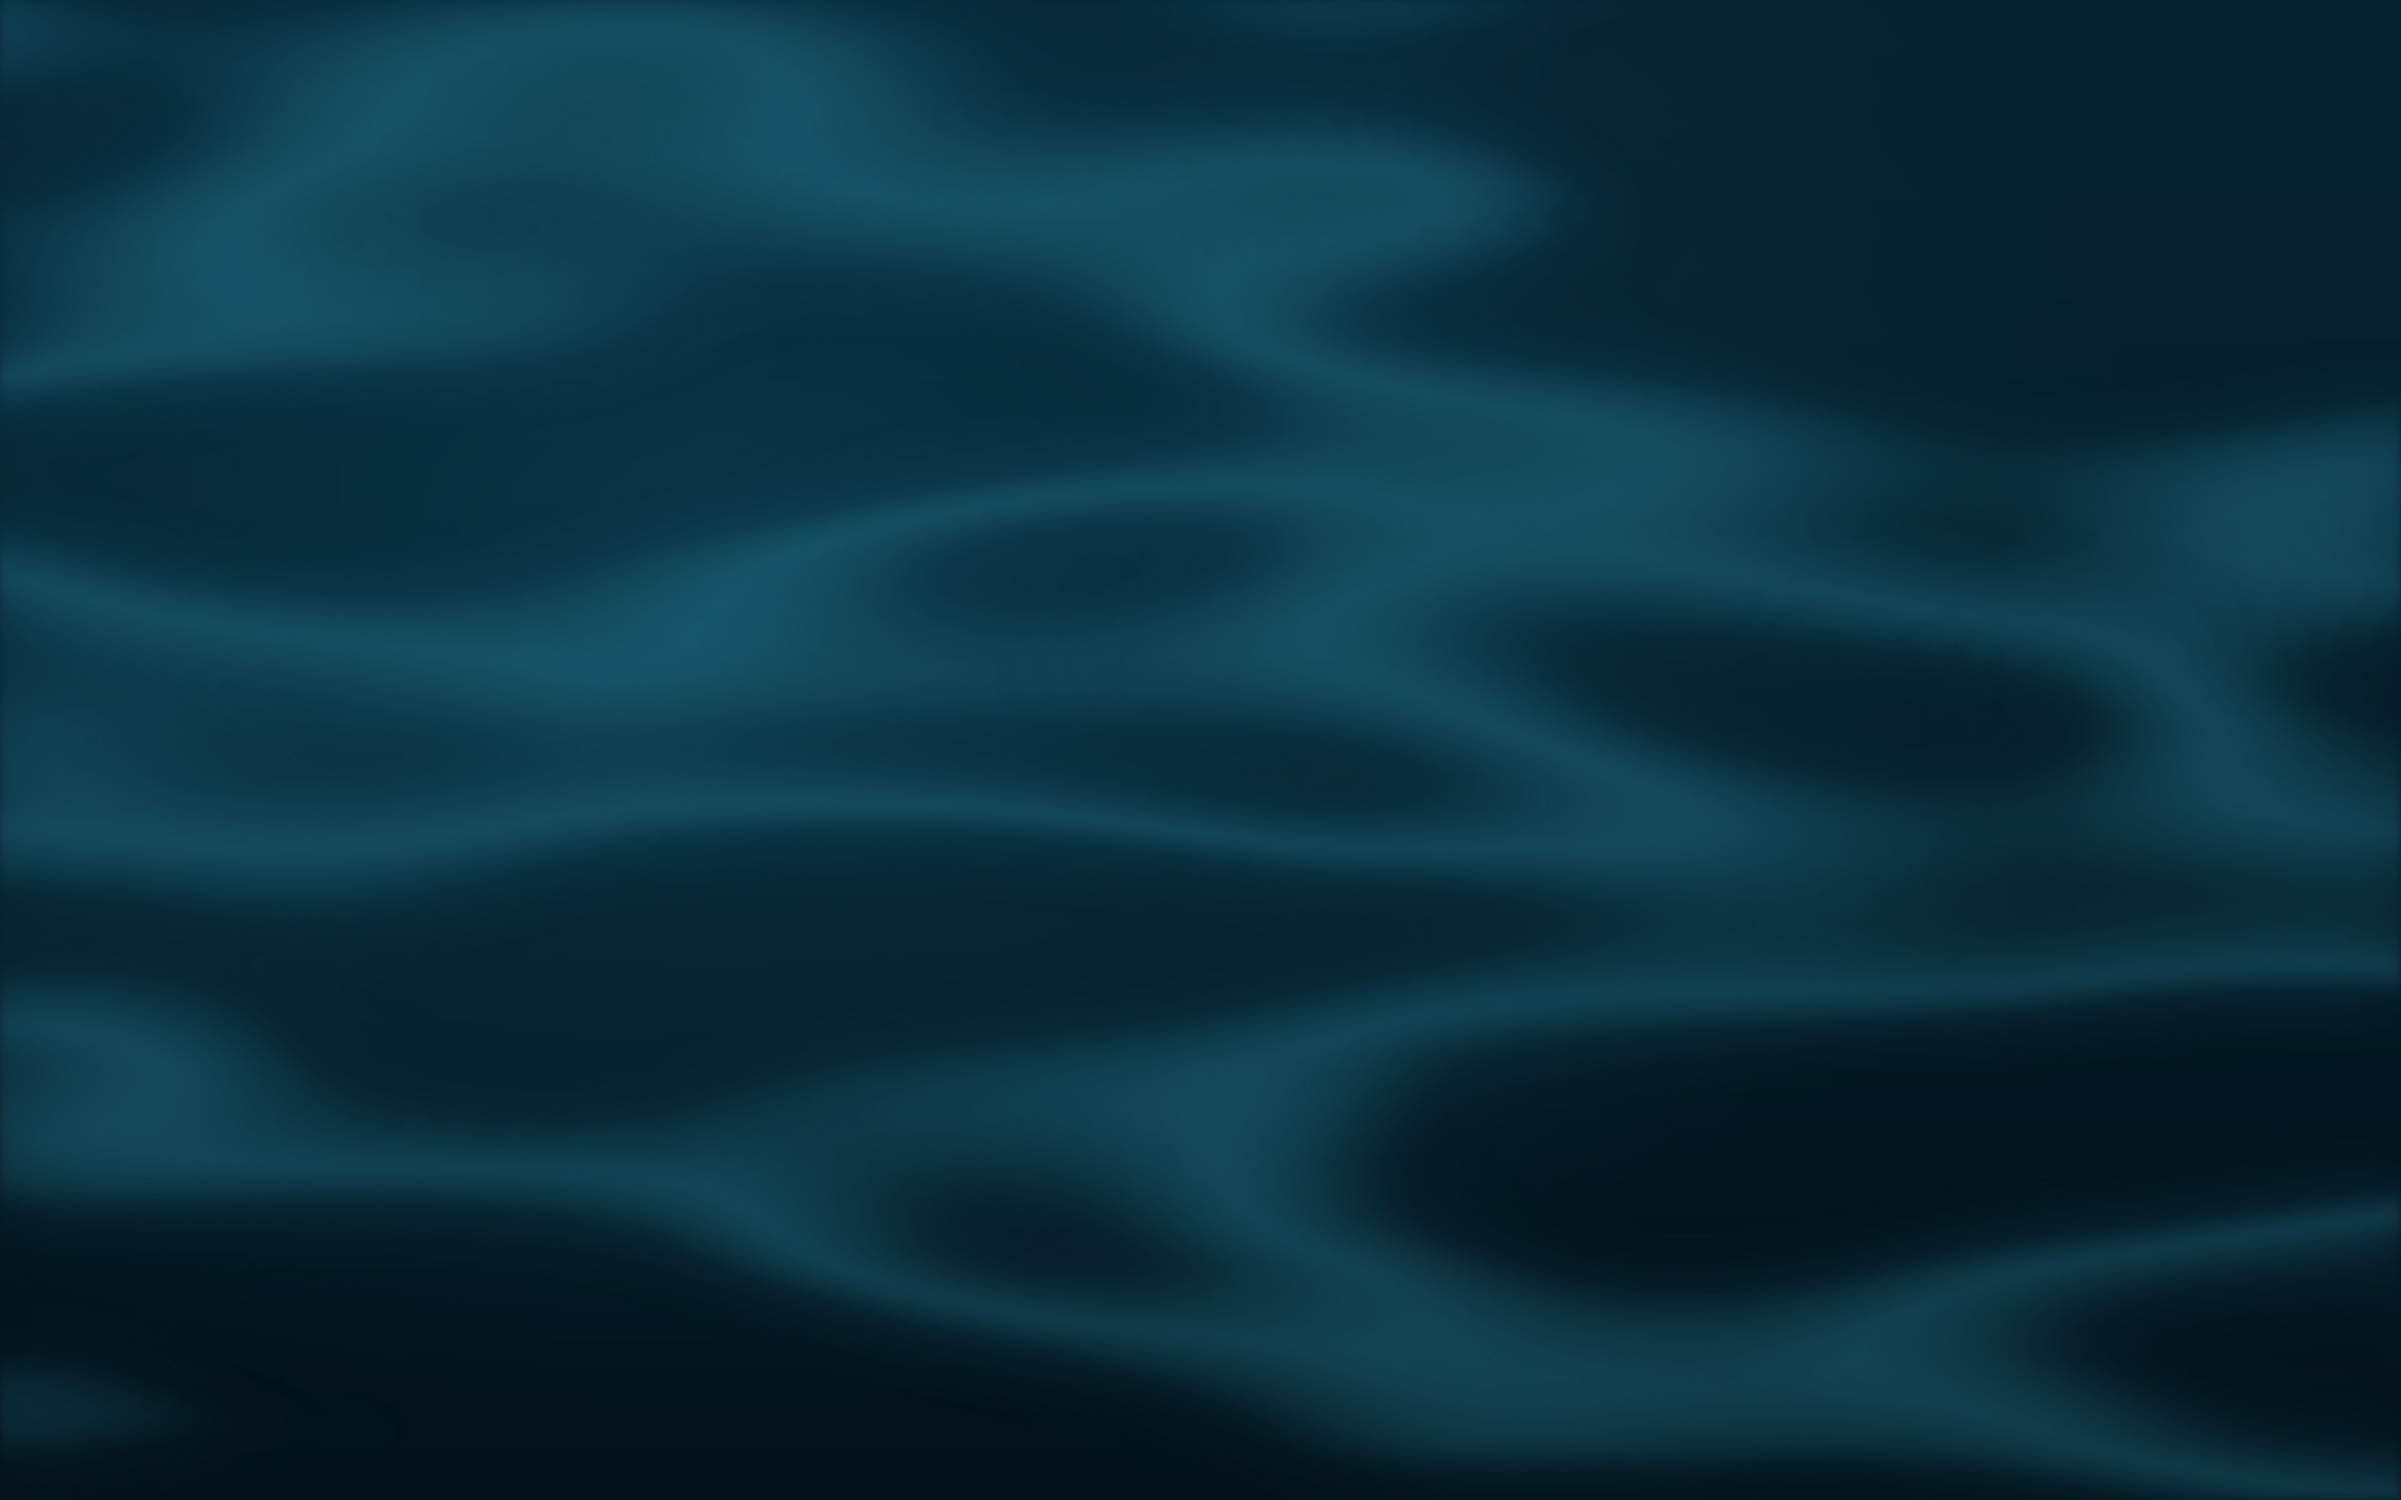
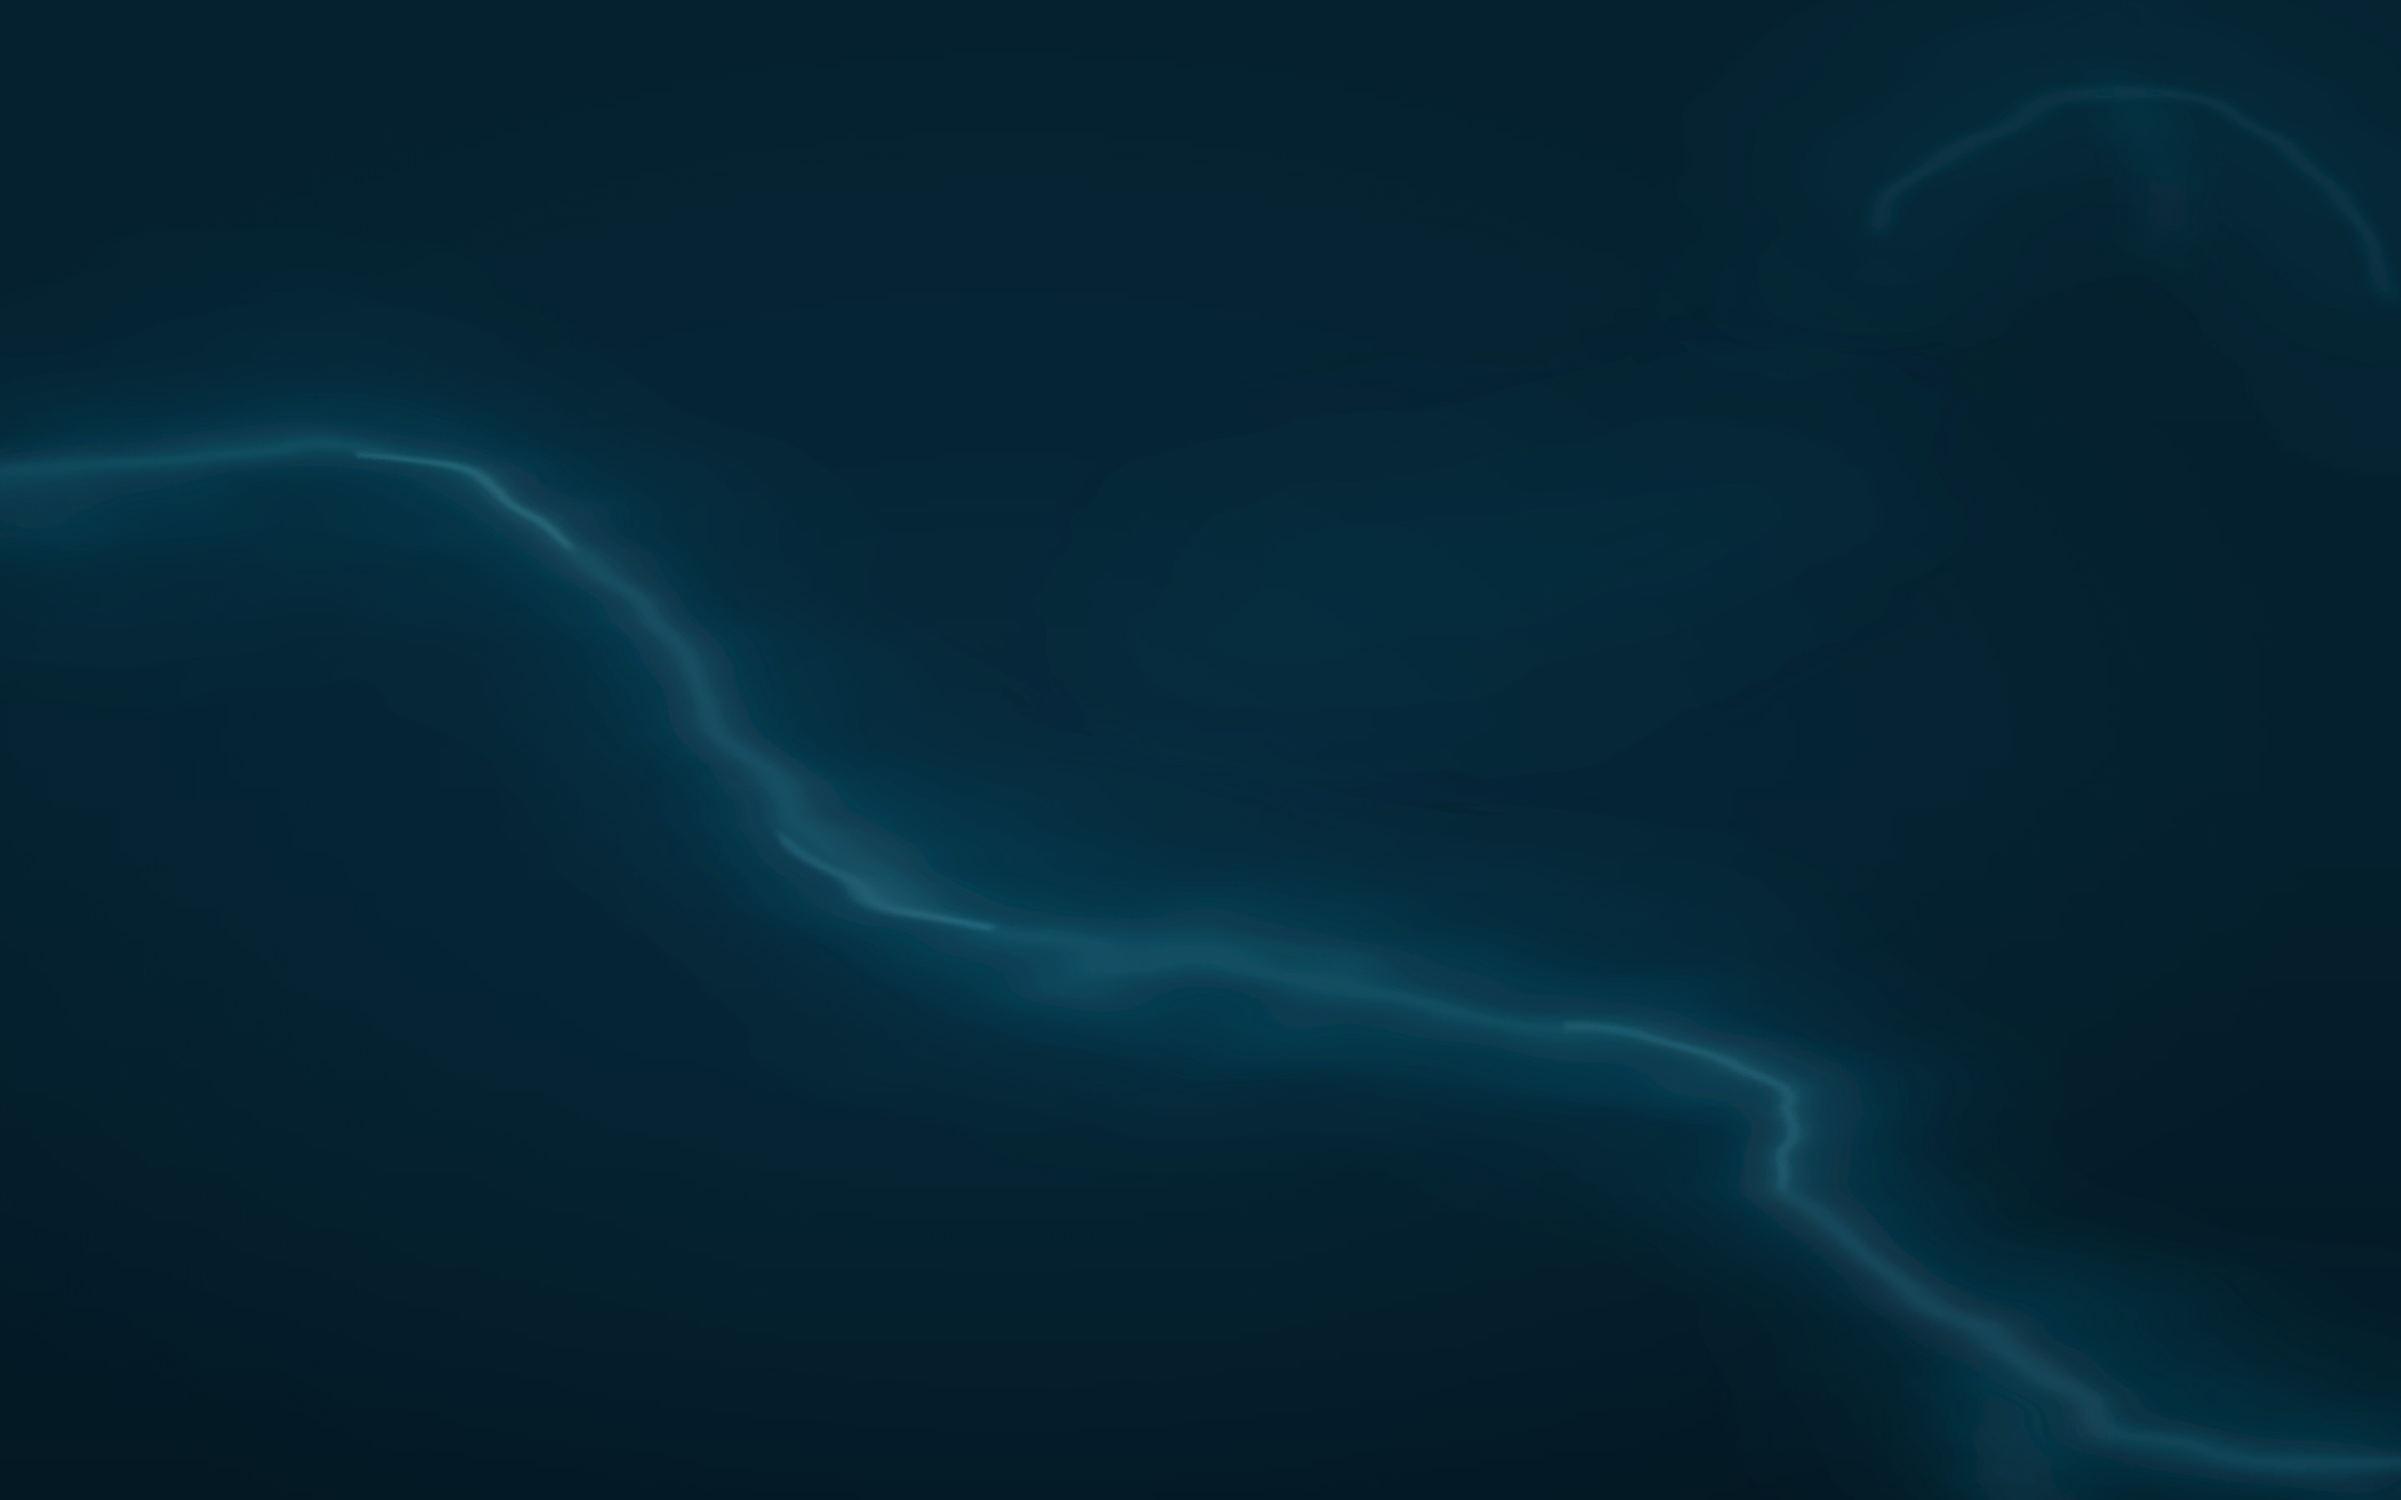
Water redrawn to match the original subtle ribbons, sharp at any size; closing subtitle 'Contact us'

diff --git a/styles.css b/styles.css
@@ -96,7 +96,7 @@ button.button { font-family: inherit; cursor: pointer; }
 .logo span { font-family: var(--serif); font-weight: 300; font-size: 28px; color: var(--white); }
 
 /* Hero */
-.hero { position: relative; min-height: 820px; display: flex; align-items: center; background: url("images/hero-phones.png?v=1795481530") right -20px center / auto 86% no-repeat, url("images/water.jpg?v=1795481530") center / cover no-repeat; }
+.hero { position: relative; min-height: 820px; display: flex; align-items: center; background: url("images/hero-phones.png?v=1795481530") right -20px center / auto 86% no-repeat, url("images/water.jpg?v=1795481771") center / cover no-repeat; }
 .hero::after { content: ""; position: absolute; inset: auto 0 0 0; height: 260px; background: linear-gradient(to bottom, rgba(3,17,26,0), var(--sea)); pointer-events: none; }
 .hero__words { position: relative; z-index: 1; max-width: 1440px; width: 100%; margin: 0 auto; padding: 0 80px; }
 .hero h1 { font-size: 76px; max-width: 700px; }
@@ -216,7 +216,7 @@ main > section:not(.hero):not(.wrap)::before, .footer::before {
   content: ""; position: absolute; inset: 0; z-index: -1; pointer-events: none;
   background:
     linear-gradient(to bottom, var(--sea) 0%, rgba(3,17,26,.35) 22%, rgba(3,17,26,.35) 78%, var(--sea) 100%),
-    url("images/water.jpg?v=1795481530") var(--wpos, center) / var(--wsize, cover) no-repeat;
+    url("images/water.jpg?v=1795481771") var(--wpos, center) / var(--wsize, cover) no-repeat;
   transform: var(--wflip, none);
   opacity: var(--wo, .9);
 }

diff --git a/index.html b/index.html
@@ -9,7 +9,7 @@
   <link rel="preconnect" href="https://fonts.googleapis.com">
   <link rel="preconnect" href="https://fonts.gstatic.com" crossorigin>
   <link href="https://fonts.googleapis.com/css2?family=Cormorant+Garamond:ital,wght@0,300;1,300&family=Inter:wght@400;500&display=swap" rel="stylesheet">
-  <link rel="stylesheet" href="styles.css?v=1795481530">
+  <link rel="stylesheet" href="styles.css?v=1795481771">
 </head>
 <body>
 
@@ -200,7 +200,7 @@
 
     <section class="closing">
       <h2 class="healing">Healing often begins when<br>the story changes</h2>
-      <p class="closing__sub">Begin your <em>first</em> dive.</p>
+      <p class="closing__sub">Contact us</p>
       <nav class="socials" aria-label="Phononaut on social media">
         <a class="social" href="#" aria-label="Phononaut on Instagram"><svg viewBox="0 0 24 24" aria-hidden="true"><rect x="3" y="3" width="18" height="18" rx="5" fill="none" stroke="currentColor" stroke-width="1.8"/><circle cx="12" cy="12" r="4.2" fill="none" stroke="currentColor" stroke-width="1.8"/><circle cx="17.4" cy="6.6" r="1.2" fill="currentColor"/></svg></a>
         <a class="social" href="#" aria-label="Phononaut on X"><svg viewBox="0 0 24 24" aria-hidden="true"><path fill="currentColor" d="M17.75 3h3.07l-6.71 7.67L22 21h-6.18l-4.84-6.33L5.44 21H2.37l7.18-8.2L2 3h6.34l4.37 5.78L17.75 3zm-1.08 16.18h1.7L7.4 4.73H5.58l11.09 14.45z"/></svg></a>

diff --git a/privacy.html b/privacy.html
@@ -9,7 +9,7 @@
   <link rel="preconnect" href="https://fonts.googleapis.com">
   <link rel="preconnect" href="https://fonts.gstatic.com" crossorigin>
   <link href="https://fonts.googleapis.com/css2?family=Cormorant+Garamond:ital,wght@0,300;1,300&family=Inter:wght@400;500&display=swap" rel="stylesheet">
-  <link rel="stylesheet" href="styles.css?v=1795481530">
+  <link rel="stylesheet" href="styles.css?v=1795481771">
 </head>
 <body>
 

diff --git a/qa.html b/qa.html
@@ -9,7 +9,7 @@
   <link rel="preconnect" href="https://fonts.googleapis.com">
   <link rel="preconnect" href="https://fonts.gstatic.com" crossorigin>
   <link href="https://fonts.googleapis.com/css2?family=Cormorant+Garamond:ital,wght@0,300;1,300&family=Inter:wght@400;500&display=swap" rel="stylesheet">
-  <link rel="stylesheet" href="styles.css?v=1795481530">
+  <link rel="stylesheet" href="styles.css?v=1795481771">
 </head>
 <body>
 
